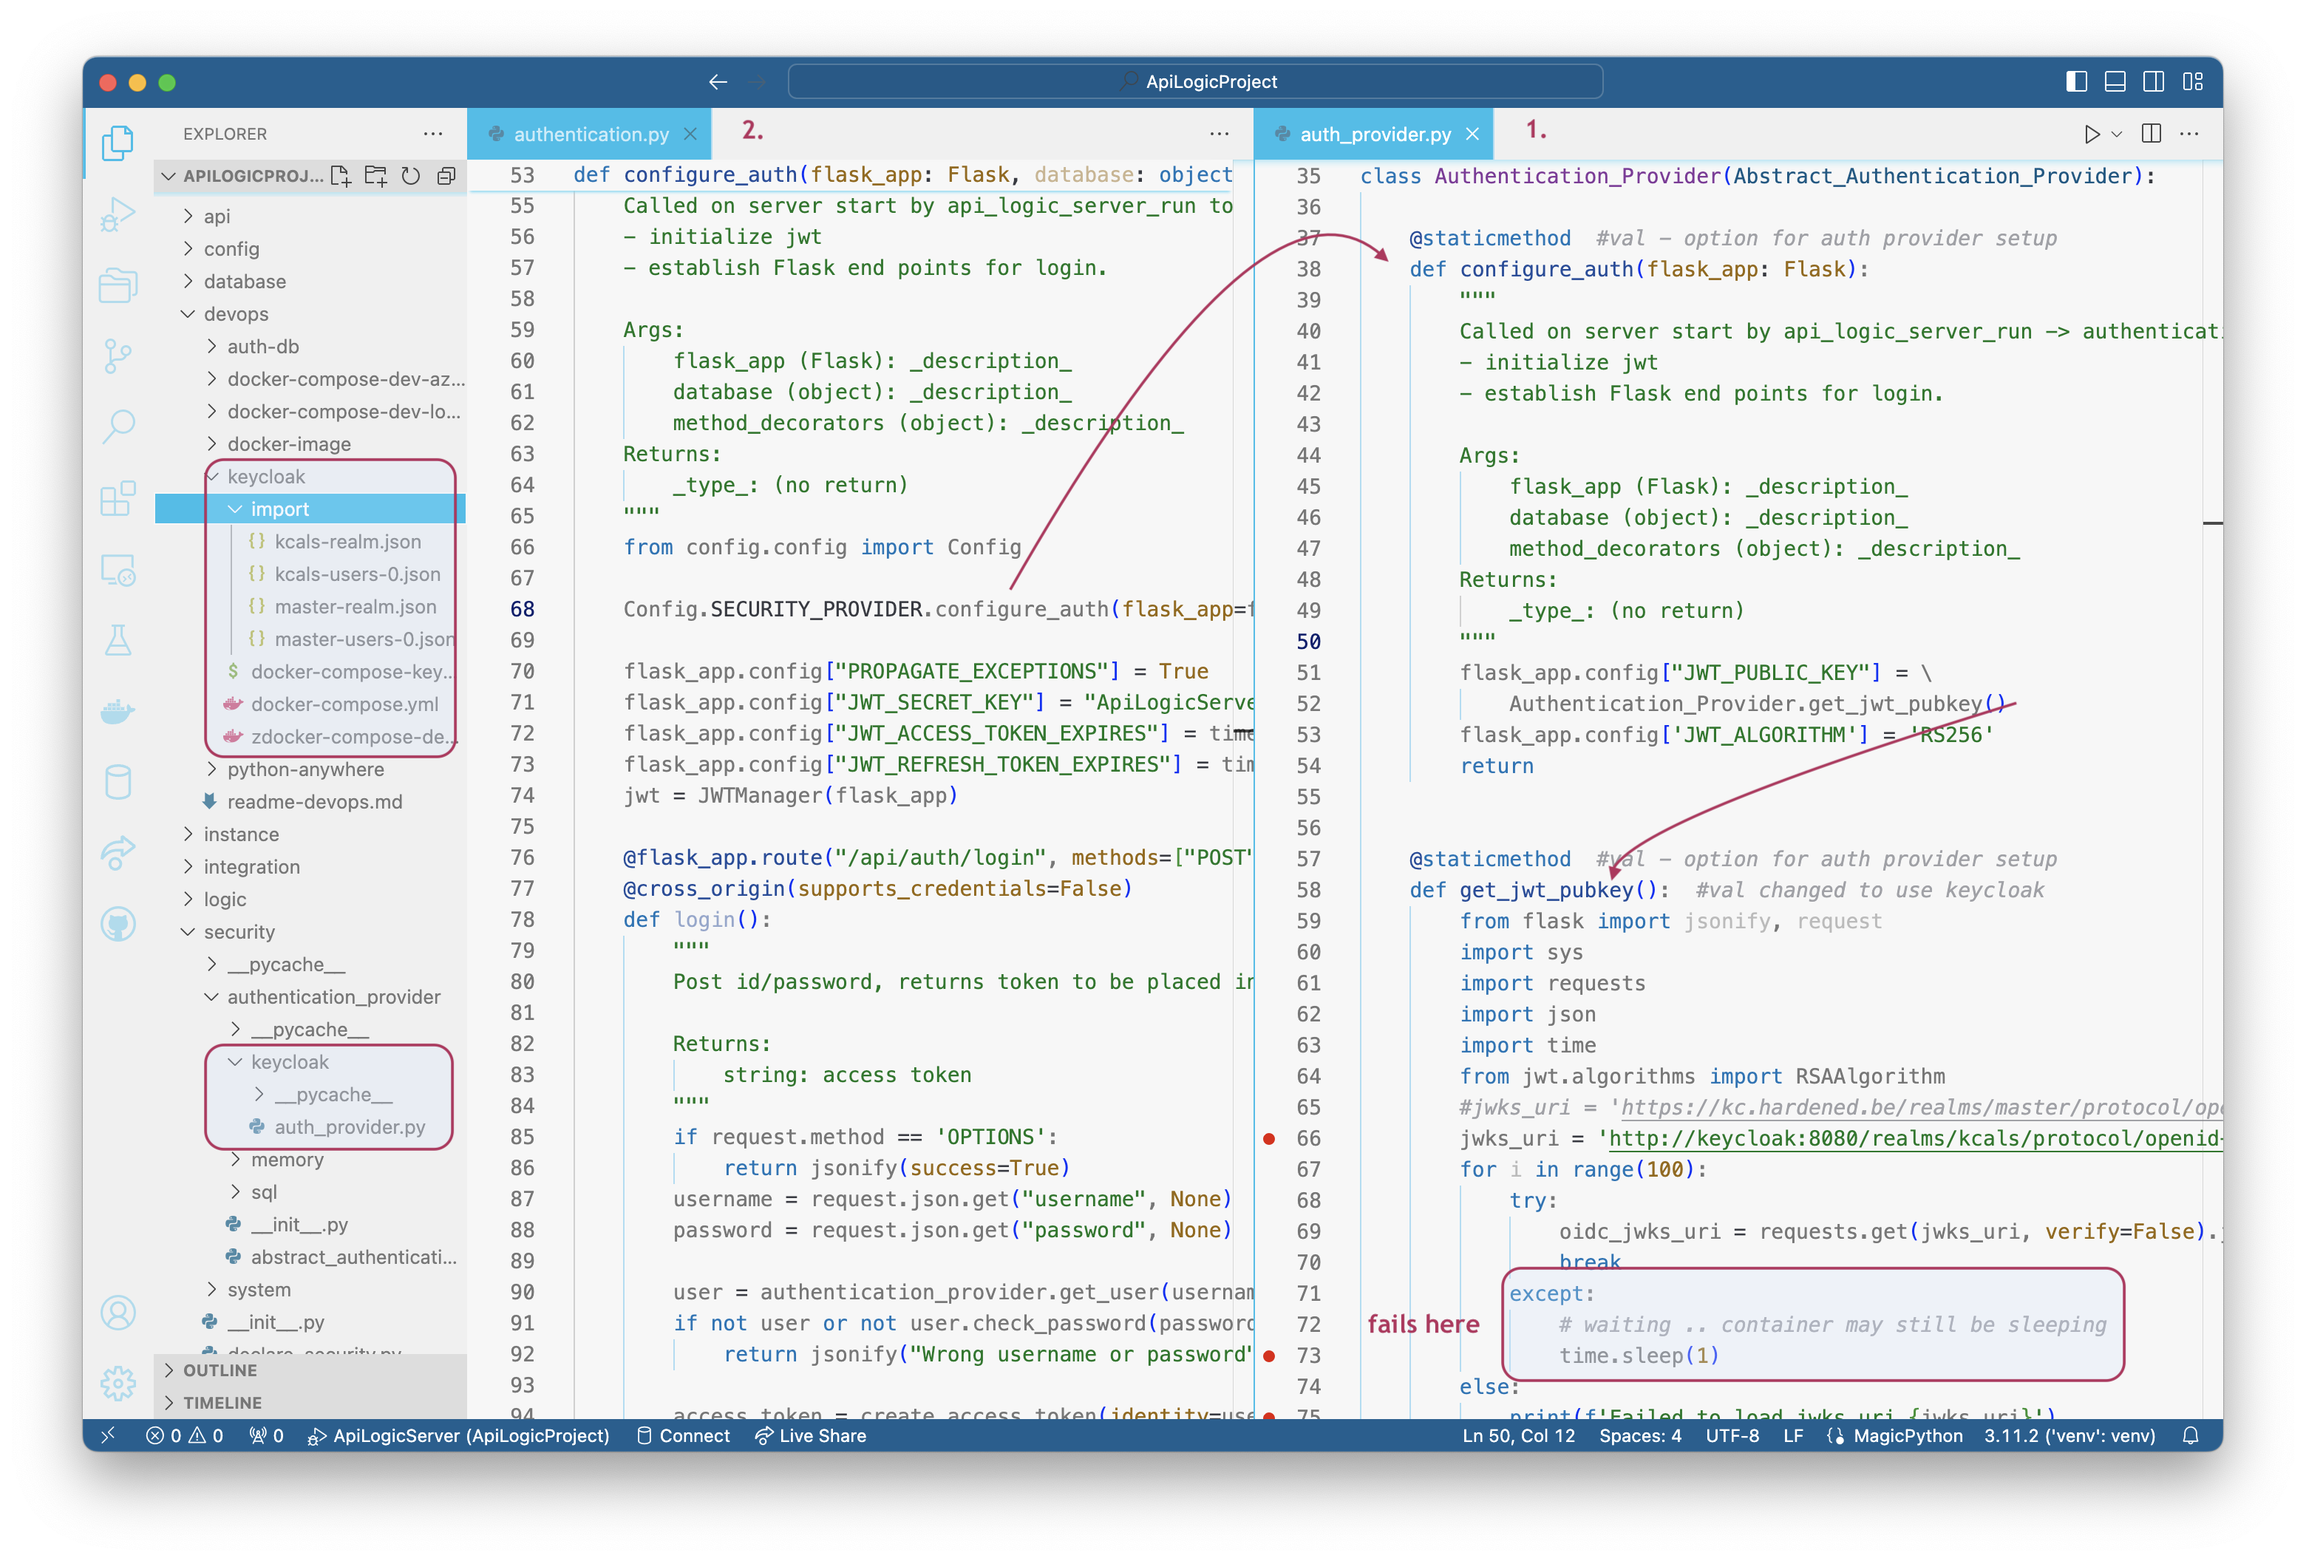
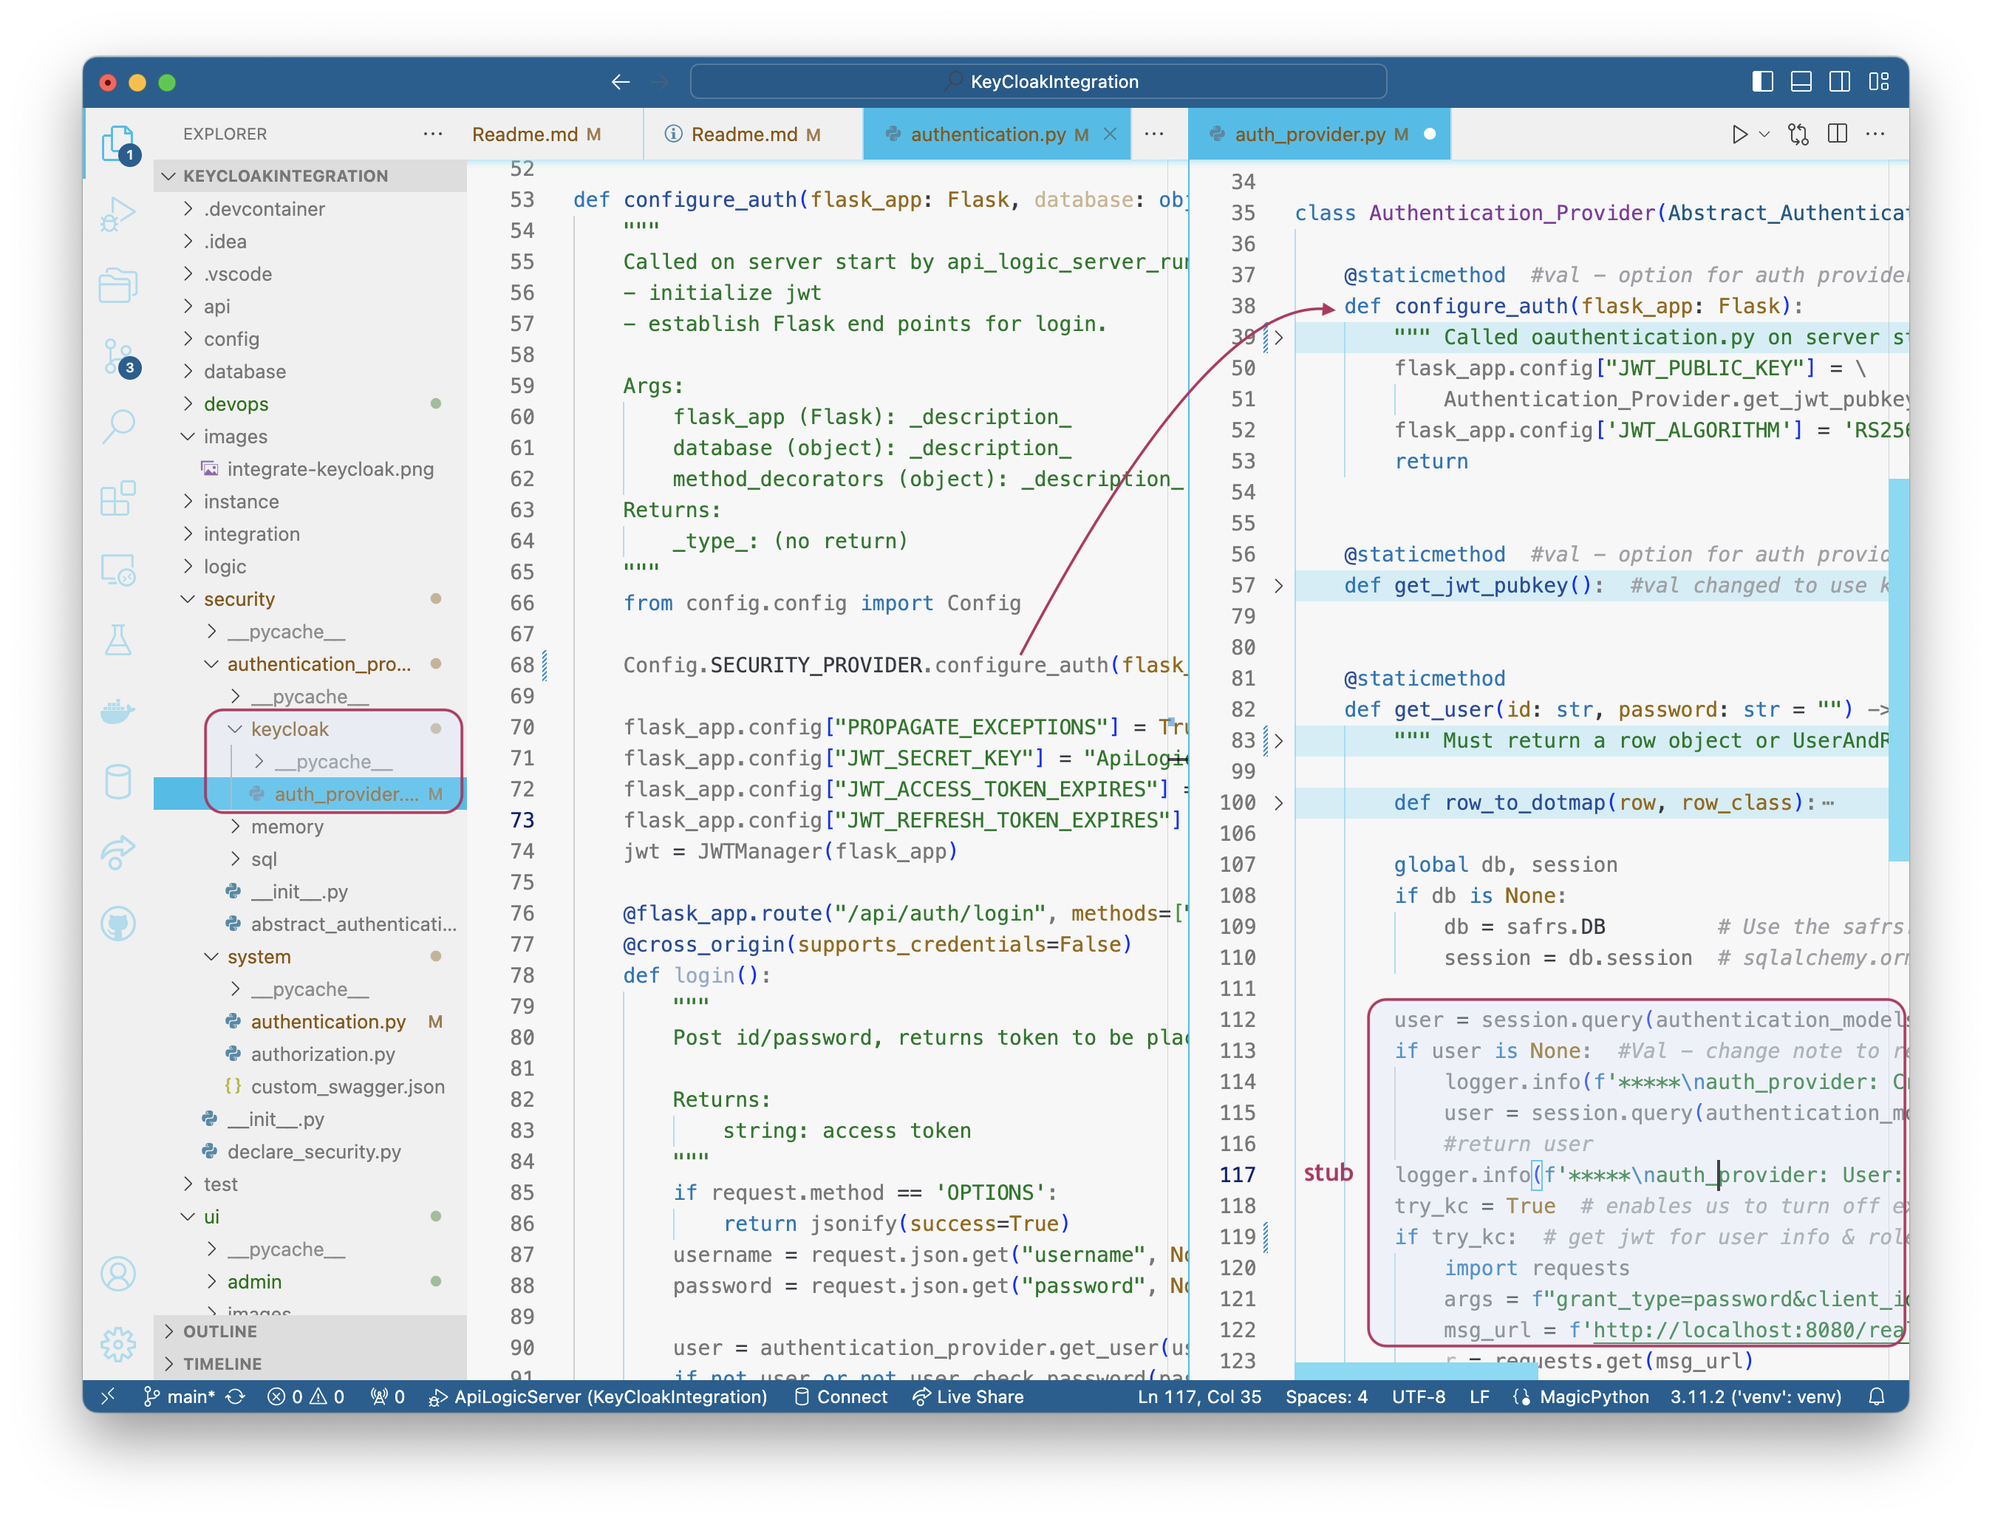
explroing jwt access - find FIXME

Changed region(s): [[0.0312, 0.0311, 0.9659, 0.932], [0.2181, 0.1864, 0.2804, 0.2175], [0.2181, 0.6214, 0.2493, 0.6524]]

diff --git a/security/authentication_provider/keycloak/auth_provider.py b/security/authentication_provider/keycloak/auth_provider.py
@@ -31,13 +31,13 @@ class UserAndRoles(DotMap):
         # print(password)
         return password == self.password_hash
 
+g_flask_app = None
 
 class Authentication_Provider(Abstract_Authentication_Provider):
 
     @staticmethod  #val - option for auth provider setup
     def configure_auth(flask_app: Flask):
-        """
-        Called on server start by api_logic_server_run -> authentication.py to 
+        """ Called oauthentication.py on server start, to 
         - initialize jwt
         - establish Flask end points for login.
 
@@ -48,6 +48,8 @@ class Authentication_Provider(Abstract_Authentication_Provider):
         Returns:
             _type_: (no return)
         """
+        global g_flask_app
+        g_flask_app = flask_app
         flask_app.config["JWT_PUBLIC_KEY"] = \
             Authentication_Provider.get_jwt_pubkey()
         flask_app.config['JWT_ALGORITHM'] = 'RS256'
@@ -81,8 +83,7 @@ class Authentication_Provider(Abstract_Authentication_Provider):
 
     @staticmethod
     def get_user(id: str, password: str = "") -> object:
-        """
-        Must return a row object or UserAndRole(DotMap) with attributes:
+        """ Must return a row object or UserAndRole(DotMap) with attributes:
 
         * name
 
@@ -117,9 +118,31 @@ class Authentication_Provider(Abstract_Authentication_Provider):
             user = session.query(authentication_models.User).first()
             #return user
         logger.info(f'*****\nauth_provider: User: {user}\n*****\n')
-        try_kc = True  # enables us to turn off experimental code
-        if try_kc:
-            import requests
+        # get user / roles from kc
+        try_kc = 'jwt'  # enables us to turn off experimental code
+        if try_kc == 'jwt':
+            """ To retrieve user info from the jwt, you may want to look into these functions:
+
+            https://flask-jwt-extended.readthedocs.io/en/stable/automatic_user_loading.html
+            as used in security/system/authentication.py 
+            """
+            global g_flask_app
+            from flask_jwt_extended import JWTManager
+            from flask_jwt_extended import create_access_token
+            from flask import jsonify
+
+            user = {id: id, password: password}  # is this == kwargs?
+            access_token = create_access_token(identity=id)
+            # now decode for user/roles info; also see jwt.io
+            jswon_jwt = jsonify(access_token=user)  # this returns something; as far as I got  FIXME
+            pass 
+
+            # jwt = JWTManager(g_flask_app)  # can't use this...
+            # fails with: AssertionError: The setup method 'errorhandler' can no longer be called on the application. It has already handled its first request, any changes will not be applied consistently.
+            # Make sure all imports, decorators, functions, etc. needed to set up the application are done before running it.
+
+        elif try_kc == 'api':  # get jwt for user info & roles
+            import requests  # not working - 404
             args = f"grant_type=password&client_id=alsclient&username={id}&password={password}"
             msg_url = f'http://localhost:8080/realms/kcals/protocol/openid-connect/token?{args}'
             r = requests.get(msg_url)

diff --git a/security/system/authentication.py b/security/system/authentication.py
@@ -65,7 +65,7 @@ def configure_auth(flask_app: Flask, database: object, method_decorators: list[o
     """
     from config.config import Config
 
-    Config.SECURITY_PROVIDER.configure_auth(flask_app=flask_app)
+    Config.SECURITY_PROVIDER.configure_auth(flask_app=flask_app)   # type-specific configuration
 
     flask_app.config["PROPAGATE_EXCEPTIONS"] = True
     flask_app.config["JWT_SECRET_KEY"] = "ApiLogicServerSecret"  # Change this!

diff --git a/Readme.md b/Readme.md
@@ -1,10 +1,13 @@
 # Integration: ApiLogicServer + Keycloak
 
-## Info
-
 This repo contains a demo for apilogicserver integration with keycloak oidc JWT authentication.  It is an attempt to integrate this more natively into API Logic Server.
 
-Status: not running.  See screen shot.
+Status - 3/7:
+
+1. able to access keycloak for login using modified sra at localhost.
+2. not able to obtain jwt data for roles/authorization
+
+&nbsp;
 
 ## Run:
 ```
@@ -15,6 +18,8 @@ docker-compose up
 This will run keycloak on the docker host:
 - keycloak (http://localhost:8080) 
     - use admin, password
+
+&nbsp;
 
 ## Test:
 
@@ -61,6 +66,8 @@ Use first Run Config.
 
 * If possible, I'd like to simplify setup, and make debugging easier, so trying to run the app natively.
 
+&nbsp;
+
 ## Adapted Implementation
 
 Several changes to adapt the original poc to API Logic Server structure:
@@ -96,55 +103,41 @@ JWT validation is implemented in [projects/KCALS/security/system/authentication.
 
 By default, apilogicserver authentication uses a user database. Our users are defined in keycloak however. I had to change [auth_provider.py](auth_provider.py) for this to (kinda) work.
 
-### Change Summary
-
-You can search for #val.
-
-***Ignore the rest of this.***
-
-This may not be complete - let's fix it:
-
-| File | Notes   |
-:-------|:-----------|
-| config/config.py | kafka_producer property - code cleanup?? |
-| security/authentication_provider/sql/auth_provider.py | get_user() - remove try, use 1st user if none (as a temp hack?)<br>Move to security/authentication_provider/kycloak/auth_provider?  |
-| security/system/authentication.py | get_jwt_pubkey(): keycloak integration<br>configure_auth() pub key & algorithm settings |
-
+&nbsp;
 
 ## React-Admin
 
 Nginx is used to host the safrs-react-admin frontend at http://localhost/admin-app .
 
-## Misc Notes
+&nbsp;
 
-Unclear why keycloak did not become a security/authentication_provider/kycloak/auth_provider?  I presume that would be the direction to go...?
+## Persisting Keycloak Data
 
-    Then, `ApiLogicServer add-auth --db_url=keycloak` activates the config to use this.
-        Or, `ApiLogicServer add-auth --provider=keycloak` since there is really no db
+keycloak data is stored inside the keycloak container in /opt/keycloak/data .
+To make this persistent, you should mount this volume. Currently, only the "import" folder is mounted.
+This import folder contains json files exported by me. These json files are imported when the container starts with the " --import-realm" command line switch ( https://www.keycloak.org/server/importExport )
 
-    And, move the settings and get_jwt_pubkey() to the provider...?
+You can try this:
 
-    In system/authentication, what causes the keycloak code to be used?  JWT_ALGORITHM setting?
+```bash
+$ mkdir data
+$ mv import data # the import folder containing the json files
+$ chmod 777 data # make sure the container keycloak user can write to this folder
+```
 
-    What is KCALS/auth_provider.py?  vs the one in the project...
+Then, change the docker-compose keycloak volumes to:
 
-    Presume sql models, database are not required, just came with activation?
+    volumes:
+        - $PWD/data:/opt/keycloak/data
 
-Where is the keycloak data stored?  In the image?  So it's lost on restart?
+This way, the /opt/keycloak/data will remain on the docker host mounted directory ($PWD/data)
 
-I like the idea of not requiring image creation first - just docker compose from local files.  We will need to doc both, maybe as comments in the compose...
+&nbsp;
 
-Can the keycloak stuff be moved into a devops directory (imports, compose)?
+## Accessing the jwt at runtime
 
-Does KeyCloak Admin provide a way to see the password?
+To retrieve user info from the jwt, you may want to look into these functions:
+https://flask-jwt-extended.readthedocs.io/en/stable/automatic_user_loading.html
+as used in security/system/authentication.py
 
-Can we have a native app in addition to docker-app?
-
-
-## WIP
-
-1. added devops/keycloak
-2. config - keycloak/auth_provider
-3. added security/authentication_provider/keycloak/auth_provider.py
-    * with attempted get_jwt_pubkey (and configs) from security/system/authentication.py
-        * can authentication call this for initialization?
+&nbsp;
